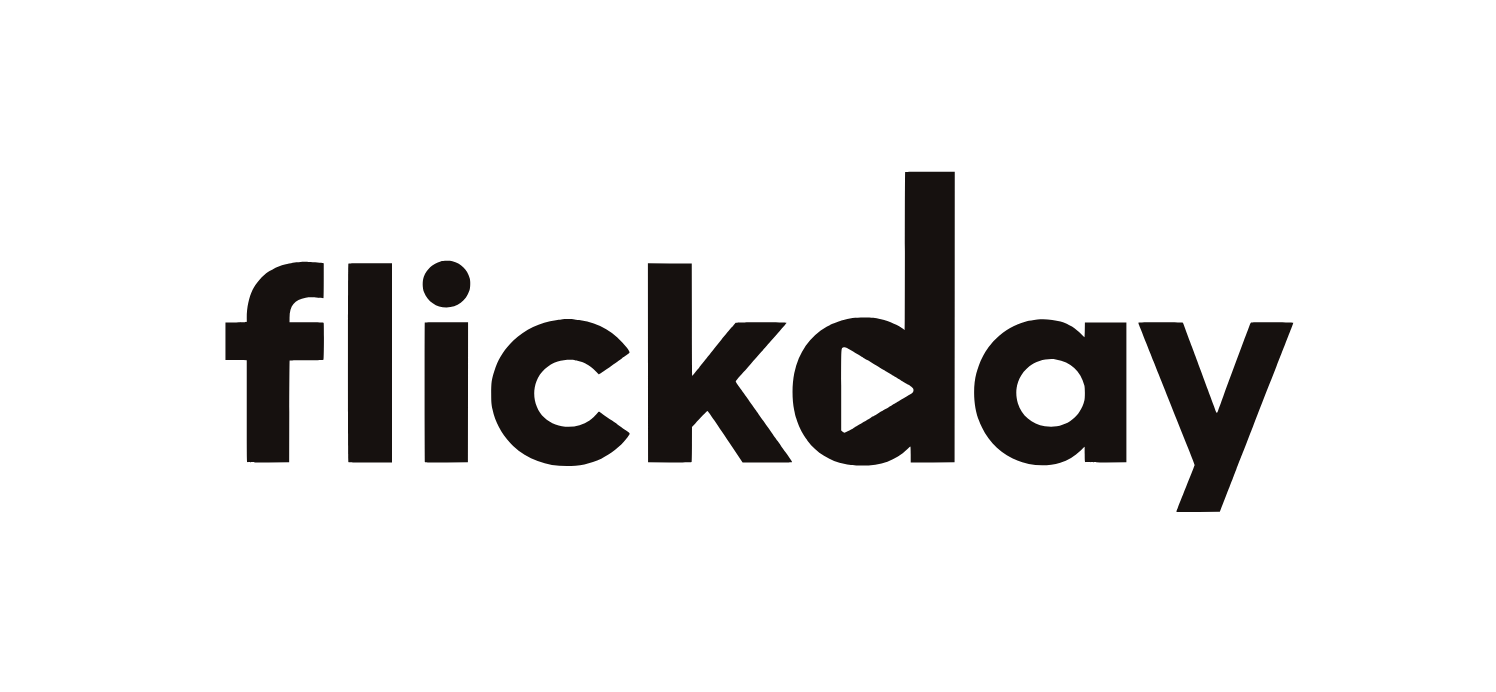
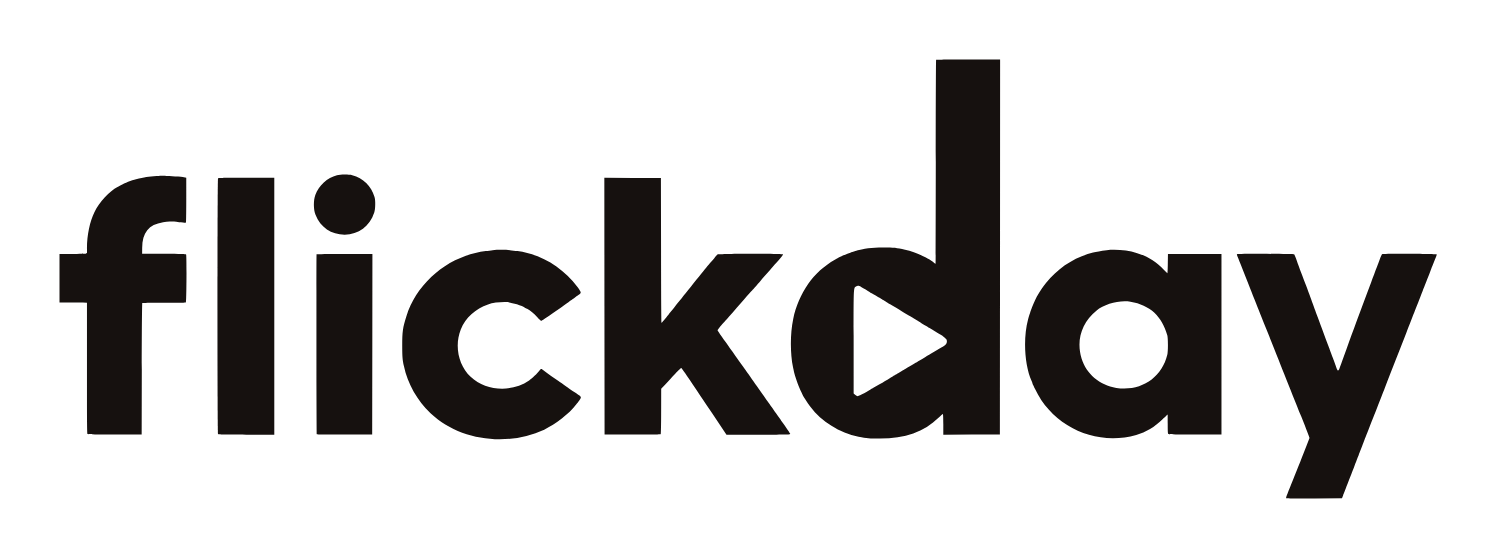
feat(brand): tighten wordmark crop + expand reel intro/outro kit
Wordmark geometry: crop the wordmark emit to its true ink bbox in
_brand-v2.mjs. The potrace artboard baked ~13% dead space each side, which
pushed MEDIA off every flickday+MEDIA lockup and broke true centering.
wordmark(px) now means px of real ink width. Re-rendered all lockups, the
standalone wordmark atom, site header (canvas re-hugged to the tight
content), OG + slogan cards, DTF lockup, outro cards, and the reel bug.
Bumped header (?v=5) and OG (?v=4) cache-busts in index.html.

Reel overlay kit: add four intros (hard-cut card, over-action scrim,
cinematic letterbox, double-exposure ghost) plus an outro overlay and a
yellow swipe card. Composite-over-footage overlays carry their own dark
scrims and composite with Normal blend (not Soft light, which washes type);
the ghost is pure black for Screen blend with a yellow ring on flickday and
a yellow edge on GAME so they read over bright footage. The meta line is
event/date only now (dropped the placeholder city). README documents the
per-asset blend/opacity/motion guide.

Changed region(s): [[0.0307, 0.0914, 0.984, 0.914]]

diff --git a/index.html b/index.html
@@ -11,7 +11,7 @@
   <meta property="og:description" content="Raw, fast, and player-first sports media. Tournament coverage for volleyball and action sports.">
   <meta property="og:type" content="website">
   <meta property="og:url" content="https://flickdaymedia.com">
-  <meta property="og:image" content="./flickday-assets/lockup-flickday-media-v2b.png?v=3">
+  <meta property="og:image" content="./flickday-assets/lockup-flickday-media-v2b.png?v=4">
 
   <!-- Favicon / app icons -->
   <link rel="icon" href="./flickday-assets/favicon/favicon.ico" sizes="any">
@@ -1377,7 +1377,7 @@
   <header class="site-header" id="site-header">
     <div class="site-header__inner">
       <a href="#hero" aria-label="Flickday Media - Back to top">
-        <img src="./flickday-assets/lockup-header.png?v=4" alt="Flickday Media" class="site-header__logo">
+        <img src="./flickday-assets/lockup-header.png?v=5" alt="Flickday Media" class="site-header__logo">
       </a>
       <a href="#contact" class="site-header__cta">BOOK US</a>
     </div>

diff --git a/flickday-assets/outro/outro.html b/flickday-assets/outro/outro.html
@@ -104,7 +104,7 @@ fill="#facc15" stroke="none">
 </svg>
       </div>
       <div style="display:flex;flex-direction:column;align-items:center">
-        <svg xmlns="http://www.w3.org/2000/svg" viewBox="0 0 3846 1636" width="820" height="349" style="display:block">
+        <svg xmlns="http://www.w3.org/2000/svg" viewBox="463 315 2982 983" width="820" height="270" style="display:block">
 
 <g transform="translate(0.000000,1636.000000) scale(0.100000,-0.100000)"
 fill="#facc15" stroke="none">

diff --git a/flickday-assets/reel-overlays/README.md b/flickday-assets/reel-overlays/README.md
@@ -1,66 +1,112 @@
 # Flickday Media — Reel Overlay Kit
 
-Drop-in overlays for Instagram **Reels + Stories** (all 1080×1920 vertical — no
-landscape). Built from Flickday's v2 visual language.
+Drop-in overlays for Instagram **Reels + Stories** (all 1080×1920 vertical). Built
+from Flickday's v2 visual language: left-anchored editorial type, yellow `#facc15`
+→ orange `#f97316` on near-black, the streak-grid signature, the flickday wordmark
+(play-in-the-'d') + `MEDIA` bug. No camera-viewfinder chrome, no mascot — that
+belongs to Let's Pepper. This is Flickday speaking for itself.
 
-This is the kinetic/editorial system, **not** the old camera-viewfinder kit (no
-crop marks, no EXIF readout, no AF reticle, no aperture glyph, no standalone F).
-Every overlay is built from the brand's own parts:
+## The one rule that makes it look pro
 
-- the **flickday wordmark** (play-in-the-'d') + `MEDIA` as the persistent bug
-- a left **accent bar** (yellow→orange) framing captions — not crop brackets
-- a **streak-grid** strip as the daily-cadence signature
-- a **day counter** (`Day 247 / 365`) where the f-stop EXIF line used to be
-- the **kinetic K wordmark** + **masthead nameplate** on the end card
+**Type lives on a scrim or a solid card — never on a raw blend mode.** Soft light /
+Overlay are contrast blends; they wash typographic cards into the footage (that
+muddy look). Every overlay here either carries its own dark scrim or is a full
+card, so it composites with **Normal** blend and stays crisp. The only Screen-blend
+asset is the ghost, and it's built on pure black specifically for that.
 
-Yellow `#facc15` → orange `#f97316` on near-black. **left-anchored** editorial type,
-never centered title cards. No radial speed-lines, no mascot — those belong to
-Let's Pepper. This is Flickday speaking for itself.
+## Three ways to open (and close)
+
+| Pattern | Asset | Footage shows? | Best for |
+|---|---|---|---|
+| **Hard-cut card** | `intro-reel` / `outro-reel` / `outro-swipe` | No — full frame | Cleanest, most legible. Cut to it for 0.8–1.5s, then cut to footage. |
+| **Composite-over-footage** | `intro-overlay` / `intro-letterbox` / `outro-overlay` | Yes — action plays under it | Modern social. Keeps energy/action visible; scrim guarantees legibility. |
+| **Double-exposure ghost** | `intro-ghost` | Yes — ghosted | Stylized. Bright marks ghost over footage with clean negative space. |
 
 ## What's here
 
-| File | Alpha | Use |
-|---|---|---|
-| `intro-reel` | opaque | Title card at the top of a reel |
-| `lowerthird-nameplate-reel` | transparent | **Blank** name/subject plate — type the name in CapCut (see below) |
-| `lowerthird-gallery-reel` | transparent | Evergreen "see the full set" gallery CTA — fixed copy, no editing |
-| `bug-reel` | transparent | Persistent corner mark (`flickday` wordmark + `MEDIA`) |
-| `hud-frame-reel` | transparent | Persistent edge frame for the whole clip — bug + day strip + top/bottom scrims |
-| `outro-reel` | opaque | End card → masthead nameplate + streak + handle |
+| File | Alpha | Blend / opacity | Use |
+|---|---|---|---|
+| `intro-reel` | opaque | **Normal** 100% | Full-frame title card at the head of a reel |
+| `intro-overlay-reel` | transparent | **Normal** 100% | Title over the opening action — clear top, headline on a bottom scrim |
+| `intro-letterbox-reel` | transparent | **Normal** 100% | Cinematic top/bottom bars, action clear in the center |
+| `intro-ghost-reel` | opaque (pure #000) | **Screen** 100% | Double-exposure title — black drops out, marks ghost over footage |
+| `bug-reel` | transparent | **Normal** 100% | Persistent corner mark (`flickday` + `MEDIA`) |
+| `hud-frame-reel` | transparent | **Normal** 100% | Persistent edge frame — bug + day strip + faint top/bottom scrims, middle clear |
+| `lowerthird-nameplate-reel` | transparent | **Normal** 100% | **Blank** name/subject plate — type the name in CapCut (see below) |
+| `lowerthird-gallery-reel` | transparent | **Normal** 100% | Evergreen "see the full set" gallery CTA — fixed copy |
+| `outro-reel` | opaque | **Normal** 100% | Full-frame end card — masthead + streak + handle |
+| `outro-overlay-reel` | transparent | **Normal** 100% | Closing brand block over a slowed/frozen final shot |
+| `outro-swipe-reel` | opaque (yellow) | **Normal** 100% | Punchy full-bleed end card for a wipe/swipe reveal |
 
 `bug-reel` vs `hud-frame-reel`: the bug is a quiet corner credit; the frame adds the
-bottom handle/day strip and faint top+bottom scrims so type stays legible over busy
-footage — and leaves the middle clear so it never blocks the action. Pick one per clip.
+bottom handle/day strip + faint scrims so type stays legible over busy footage, and
+leaves the middle clear so it never blocks the action. Pick one per clip.
 
-### The name-plate is a blank template
+## Blend cheat-sheet (this kit is light type on dark)
 
-`lowerthird-nameplate-reel` ships with an **empty text well** (the faint yellow
-baseline shows where the name sits) so you add the subject as a CapCut text layer —
-it isn't baked in. That keeps it sport-agnostic: type a player name, a team, a
-location, whatever the clip needs. Set the CapCut text left-aligned, sitting on the
-baseline, in Bebas Neue / Impact white. To bake the text in instead, pass
-`{ tag, lead, sub }` (no `blank`) to `lowerThird()` in the render queue and re-render.
+| You want | Blend | Opacity | On |
+|---|---|---|---|
+| Legible card / scrim overlay / lower-third | **Normal** | 100% | any overlay above |
+| Bright marks only, ghosted over footage | **Screen** | 100% | `intro-ghost` (pure-black asset) |
+| Streak / grain / light-leak *texture* | Screen or Soft light | 30–50% | a texture-only asset |
+| Darken footage behind type | Multiply | 60–100% | a dark scrim/vignette asset |
+| **Headline type** | never a contrast blend | — | — |
+
+If a card looks washed: you're on Soft light / Overlay. Switch to **Normal** (cards)
+or **Screen** (the ghost on its pure-black background).
+
+## Motion (CapCut keyframes — what sells the "pro" feel)
+
+Static PNGs; animate them in CapCut. Keep moves fast (8–14 frames) and ease-out.
+
+- **Hard-cut card** (`intro-reel`): hold 0.8–1.2s. Optional: the headline rises +24px
+  with a fade, the streak strip wipes left→right. Whip-cut or 6-frame dip-to-black
+  into the first shot.
+- **Over-action** (`intro-overlay`): scrim + headline fade up over 10 frames as the
+  clip starts; hold ~1.5s; let the headline slide down 30px and fade as the action
+  peaks.
+- **Letterbox** (`intro-letterbox`): bars slide in from top/bottom (12 frames); the
+  accent rules draw on; hold; bars retract on the first big moment.
+- **Ghost** (`intro-ghost`, **Screen**): scale 104%→100% + fade over the first ~1.5s.
+  Pick a shot with clean sky/turf negative space so the white reads.
+- **Freeze outro** (`outro-overlay`): freeze the last frame (or slow to 0.3×),
+  desaturate slightly, fade the scrim + block up; hold 2–3s.
+- **Swipe card** (`outro-swipe`): wipe it on with a left→right or clock wipe (or mask
+  the play-triangle as the wipe shape) off the final shot; hold 2s.
 
 ## CapCut layering
 
 1. Footage on the base track.
-2. `bug-reel` **or** `hud-frame-reel` on a track above it for the whole clip.
-3. `lowerthird-*` over the relevant shot — alpha, so it composites straight on.
-4. `intro-reel` / `outro-reel` as full-frame opaque clips at head / tail.
+2. **Open**: `intro-reel` head clip (full-frame) — OR `intro-overlay` / `intro-letterbox`
+   on a track above the first ~2s — OR `intro-ghost` above the footage set to **Screen**.
+3. Whole-clip: `bug-reel` **or** `hud-frame-reel` on a track above the footage.
+4. `lowerthird-*` over the relevant shot.
+5. **Close**: `outro-reel` / `outro-swipe` tail clip (full-frame) — OR `outro-overlay`
+   over a slowed final shot.
+
+### Safe zones
+
+Instagram's UI covers the **right edge** (action buttons) and the **bottom ~250px**
+(caption/handle). The kit is left-anchored to dodge the buttons; if a clip will keep
+the IG caption visible, nudge tail clips so the day-strip isn't hidden behind it.
+
+### The name-plate is a blank template
+
+`lowerthird-nameplate-reel` ships with an **empty text well** (the faint yellow
+baseline shows where the name sits) so you add the subject as a CapCut text layer.
+Left-aligned, on the baseline, Bebas Neue / Impact white. To bake text in instead,
+pass `{ tag, lead, sub }` (no `blank`) to `lowerThird()` and re-render.
 
 ## Regenerate / customize
 
-The brand language lives in `scripts/story-assets/_brand-v2.mjs` (one source of
-truth for the F glyph, kinetic wordmark, streak grid, masthead, and end card).
-Fonts are embedded (offline-safe) via `_fonts.mjs` — rebuild with `_build-fonts.mjs`
-only if the font set changes.
+The brand language lives in `scripts/story-assets/_brand-v2.mjs` (one source of truth
+for the wordmark, play icon, streak grid, and end card). Fonts are embedded (offline).
 
-Edit the `E` block in `render-reel-overlays.mjs` (event title, meta, day counter,
-handle) and run:
+Edit the `E` block in `render-reel-overlays.mjs` (event title, kicker, meta, day
+counter, handle) — it drives **every** intro/outro/overlay at once — then run:
 
 ```
 node scripts/story-assets/render-reel-overlays.mjs   # this kit
-node scripts/story-assets/render-social-bugs.mjs     # ../social-bugs/  (@handle pills)
 node scripts/story-assets/render-outro-v2.mjs        # ../outro/  (end cards + lockups)
-node scripts/story-assets/render-brand-v2.mjs        # ../  (site marks: og, header, favicon, footer)
+node scripts/story-assets/render-brand-v2.mjs        # ../  (site marks: og, header, favicon)
 ```
